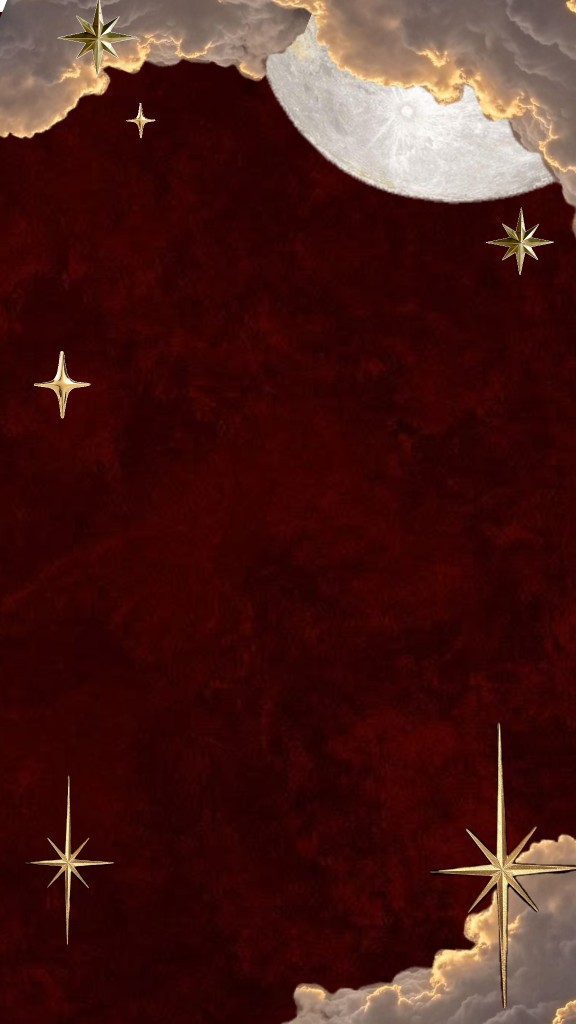
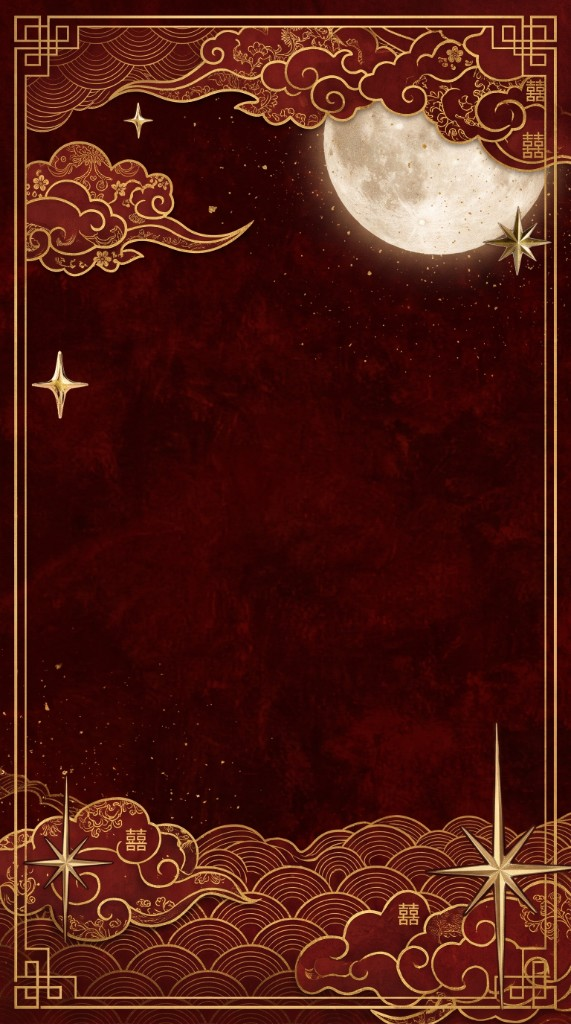
Replace site background with new crimson celestial artwork.

diff --git a/css/styles.css b/css/styles.css
@@ -51,11 +51,9 @@ body {
   position: fixed;
   inset: 0;
   z-index: 0;
-  background-color: #4a0808;
-  background-image:
-    linear-gradient(180deg, rgba(58, 10, 10, 0.12), rgba(28, 4, 4, 0.22)),
-    url("../images/bg-celestial.jpg");
-  background-position: center top;
+  background-color: #5a1010;
+  background-image: url("../images/bg-celestial.jpg");
+  background-position: center center;
   background-size: cover;
   background-repeat: no-repeat;
 }
